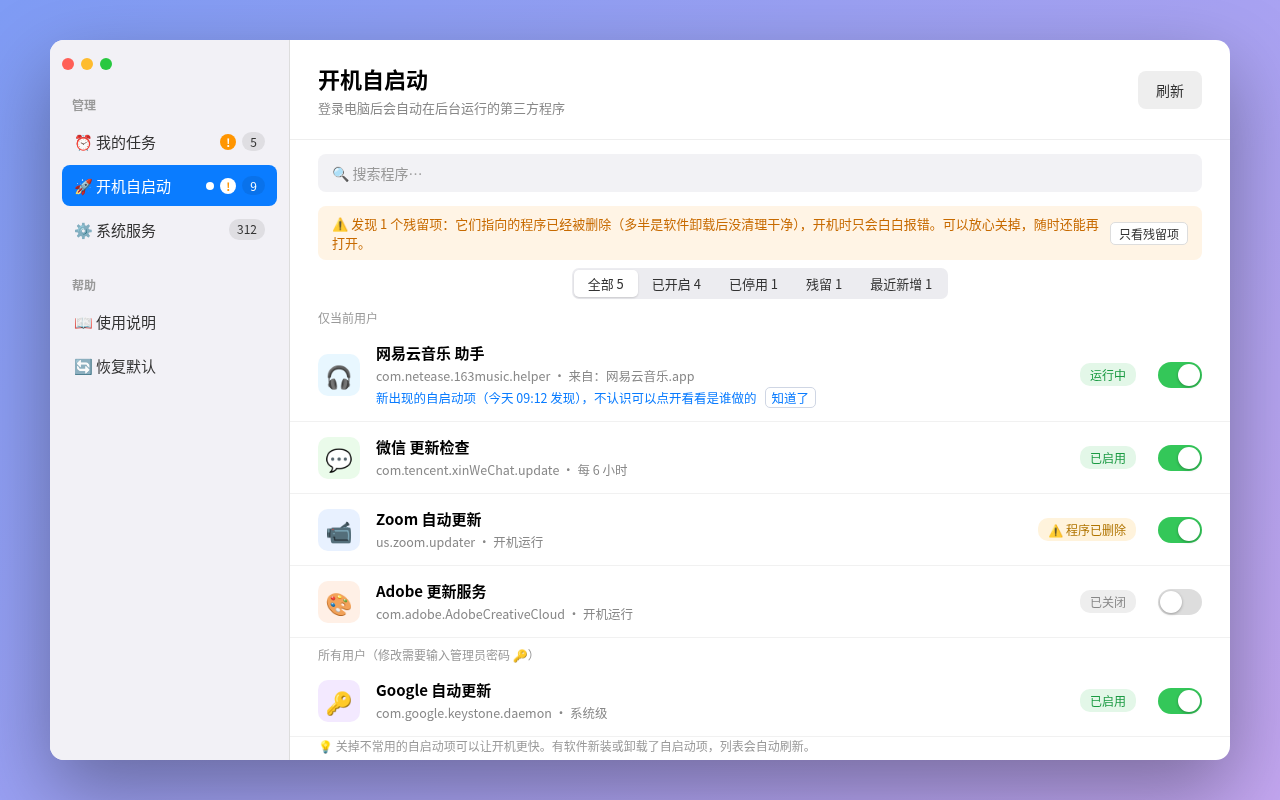
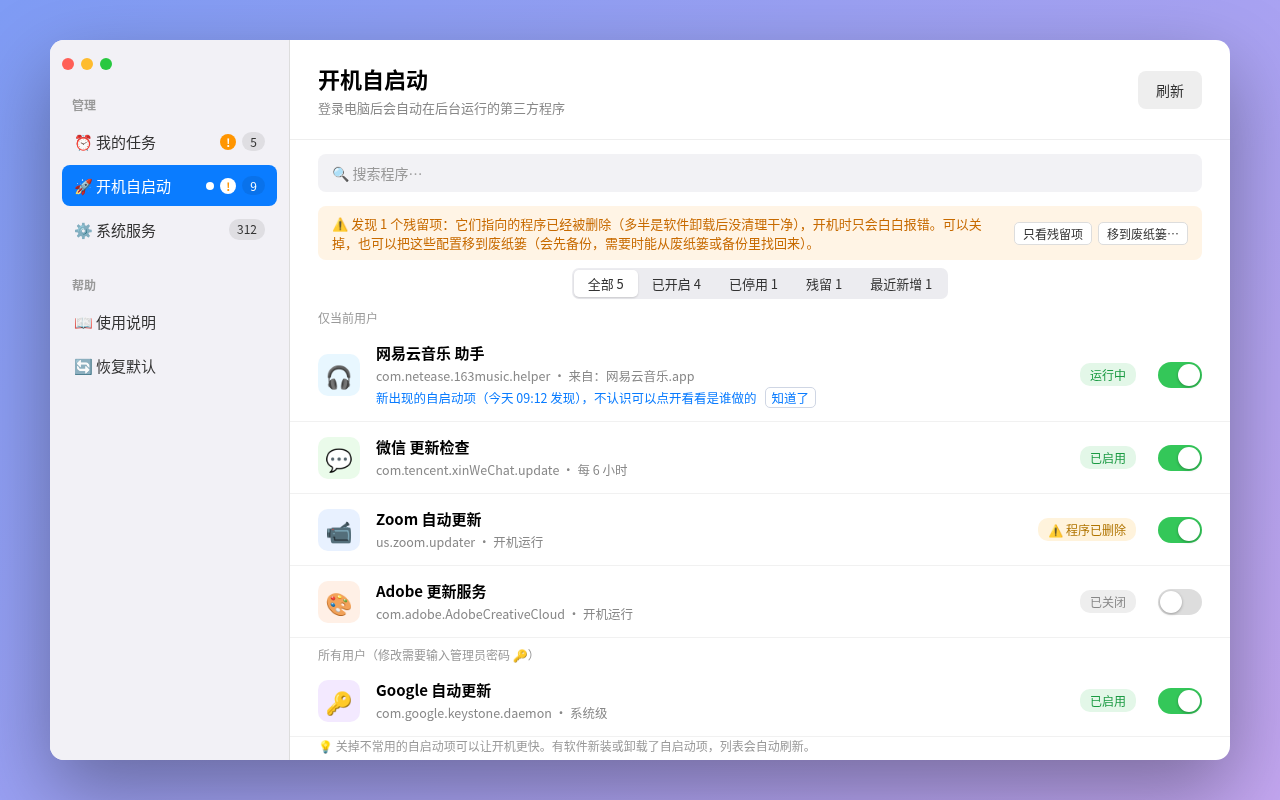
0.6.0：更新说明、README 与开机自启动截图

Changed region(s): [[0.25, 0.2812, 0.625, 0.3125], [0.75, 0.25, 0.9375, 0.3125]]

diff --git a/README.md b/README.md
@@ -20,7 +20,7 @@
 
 ![新建任务](docs/images/mockup-new-task.png)
 
-**开机自启动**：各种软件偷偷装的后台程序，看不顺眼的可以关掉。软件卸载后留下的残留项会用橙色标出来，还能按「全部 / 已开启 / 已停用 / 残留」筛选。最近 7 天新冒出来的自启动项会用蓝色小字标出来，侧边栏也会亮一个蓝色小圆点。
+**开机自启动**：各种软件偷偷装的后台程序，看不顺眼的可以关掉。软件卸载后留下的残留项会用橙色标出来，还能按「全部 / 已开启 / 已停用 / 残留」筛选；这些残留配置可以先备份再移到废纸篓，移走后访达会打开并选中这些文件。最近 7 天新冒出来的自启动项会用蓝色小字标出来，侧边栏也会亮一个蓝色小圆点。
 
 ![开机自启动](docs/images/mockup-startup.png)
 
@@ -36,22 +36,22 @@
   - 三种时间：每隔 N 分钟（或小时）、每天几点几分、开机登录时
   - 暂停和恢复，暂停后重启电脑也不会偷偷跑起来
   - 「每天几点」的任务直接在列表里显示「下次：今天 21:00」，不用自己算
-  - 新建或修改时会提前告诉你保存后第一次什么时候运行；保存按钮变灰时，旁边会写出还差哪一步
+  - 新建或修改时会提前告诉你保存后第一次什么时候运行；保存按钮变灰时，旁边会写出还差哪一步。点灰掉的保存按钮，会让还没填的那一行闪一下描边；「每隔一段时间」设得太短（少于 5 分钟）时，会用橙色小字提醒，但不阻止保存
   - 右键「立即运行一次」，方便试一下效果
   - 也可以用键盘：选中任务后回车修改、空格暂停或恢复、删除键删除（会先确认）
-  - 查看运行记录，任务打印的内容和报错都会存在 `~/Library/Logs/Launchy/` 里。出错的那一行会标橙并自动滚过去，也可以「拷贝全部」发给别人帮忙看
+  - 查看运行记录，任务打印的内容和报错都会存在 `~/Library/Logs/Launchy/` 里。出错的那一行会标橙并自动滚过去，也可以「拷贝全部」发给别人帮忙看。如果是隐私保护拦住，或任务要打开的文件找不到了，橙色说明旁边会直接给出「打开系统设置」或「重新选择…」
   - 每个任务都显示上次运行结果：成功还是失败、启用以来跑了几次。失败时用大白话说原因（比如「脚本没有执行权限」「找不到 brew 命令」），旁边有「查看运行记录」按钮
   - 要打开的程序、脚本或文件被移走或删掉了，会显示橙色「找不到文件」，点「重新选择…」换一个就行
 - **开机自启动**
   - 列出「仅当前用户」「所有用户」「系统级」三类第三方后台服务
   - 一个开关控制启用或关闭。系统级的服务会弹出系统密码框，Launchy 自己不碰你的密码
   - 每一项都显示所属软件的真实图标；找不到软件的，按用途（更新、同步、清理、网络、安全……）配一个彩色小图标
-  - 点一下就能看详情：它属于哪个软件、是谁做的（读程序签名，告诉你是苹果、App Store、苹果认证的开发者，还是没签名）、大概是干嘛的（常见的我写了中文说明，其他的靠关键词猜个八九不离十）、什么时候运行、进程号、上次退出码
+  - 点一下就能看详情：它属于哪个软件、是谁做的（读程序签名，告诉你是苹果、App Store、苹果认证的开发者，还是没签名；认证开发者的程序还会再说一句有没有经过苹果公证）、大概是干嘛的（常见的我写了中文说明，其他的靠关键词猜个八九不离十）、什么时候运行、进程号、上次退出码
   - 详情页里可以「立即运行」「停止」「在访达中显示」
   - 顶部可以按「全部 / 已开启 / 已停用 / 残留」筛选，每一项后面带数量
   - 标出「最近新增」：最近 7 天新冒出来的自启动项会用蓝色小字提醒是什么时候发现的，点「知道了」就不再提醒（不会关掉它）；有好几个时可以在「最近新增」筛选里「全部知道了」。第一次使用时，已有的都算早就有的
   - 有软件新装或卸载了自启动项，列表会自动刷新，不用手动点「刷新」
-  - 自动标出「残留项」：软件已经删了、后台配置还留着的，会显示橙色「⚠ 程序已删除」，页面顶部也会提醒，详情页会用大白话告诉你怎么处理。只检查第三方服务，不会自动删任何东西
+  - 自动标出「残留项」：软件已经删了、后台配置还留着的，会显示橙色「⚠ 程序已删除」，页面顶部也会提醒。可以先备份再移到废纸篓（只处理程序已删除的第三方项；涉及 `/Library` 时会要一次密码），移走后访达会打开废纸篓并选中这些文件，方便确认或拖回去。不会永久删除
   - 可以编辑：程序、参数、开机运行、定时，也可以直接改原始 plist。保存前会先用 `plutil` 检查格式，再自动备份到 `~/Library/Application Support/Launchy/backups`，改坏了能一键从备份恢复。`/Library` 下的文件保存时会弹一次密码框。保存和恢复都在后台进行，界面不会卡住
 - **系统服务**
   - 列出 `/System/Library` 下苹果自带的服务，可以搜索，常见的配了中文名
@@ -62,6 +62,7 @@
   - 每次修改都有记录，可以一键「恢复默认」
 
 - **其他**
+  - 下次打开会记住上次看的是「我的任务」「开机自启动」还是「系统服务」，直接回到那里；第一次使用仍从「我的任务」开始
   - 侧边栏会提醒你哪里需要处理：「我的任务」里有任务出错、「开机自启动」里有还开着的残留项时，名字旁边会出现橙色感叹号，鼠标停上去能看到原因；有最近新增的自启动项时，「开机自启动」旁边会出现蓝色小圆点
   - 支持 VoiceOver 读屏：每一行读成「名字，状态」，开关和右键里的操作都能在 VoiceOver 的操作菜单里找到；新建 / 修改任务窗口也会读出选了什么、保存按钮为什么不能点
 
@@ -150,7 +151,10 @@ scripts/build-app.sh 0.1.0 --dmg   # 产物在 dist/ 里
 「每天几点」的任务会在电脑醒来后补跑一次；「每隔 N 分钟」的任务睡着的时候不跑，醒了接着按间隔跑。这是 launchd 本身的规则，我也没办法。
 
 **脚本说没有权限访问「文稿」「桌面」？**
-这是 macOS 的隐私保护。在「系统设置 → 隐私与安全性 → 完全磁盘访问权限」里给 `zsh`（或者你用的那个程序）打开权限就行。
+这是 macOS 的隐私保护。在「系统设置 → 隐私与安全性 → 完全磁盘访问权限」里给 `zsh`（或者你用的那个程序）打开权限就行。如果是运行记录里认出来的，也可以直接点旁边的「打开系统设置」。
+
+**卸载软件后，「开机自启动」里还留着一项？**
+那是残留配置，程序已经不在了，开着也只会报错。可以先关掉，也可以点「移到废纸篓…」：会先备份，再移到废纸篓，访达会打开并选中这些文件，需要时可以拖回去。
 
 **为什么不上架 App Store？**
 App Store 的应用必须在沙盒里运行，而沙盒里没法管理 launchd，这是硬限制。

diff --git a/docs/release-notes/0.6.0.md b/docs/release-notes/0.6.0.md
@@ -1,0 +1,6 @@
+- 软件卸载后留下的残留自启动配置，可以先备份再移到废纸篓：只处理程序已经不在了的第三方项，不会永久删除；涉及 /Library 时会要一次密码。移走之后，访达会打开废纸篓并选中这些文件，方便当场确认或拖回去
+- 详情页「谁做的」对认证开发者的程序会再补一句有没有经过苹果公证：已公证会说明苹果扫描过；查不到只用灰色说明，不吓人（后台检查，不强制联网）
+- 下次打开会记住上次看的是「我的任务」「开机自启动」还是「系统服务」，直接回到那里；第一次使用仍从「我的任务」开始
+- 运行记录认出是隐私保护拦住，或任务要打开的文件找不到了，会在橙色说明旁边直接给出「打开系统设置」或「重新选择…」，不用自己去翻
+- 「每隔一段时间」设成少于 5 分钟时，会在间隔下面用橙色小字提醒（打开程序会反复弹出、打开文件会打断手上的事、脚本更费电且没跑完会跳过），只提醒，不阻止保存
+- 新建或修改任务时，点看起来灰掉的「创建 / 保存」按钮，会让还没选文件或间隔没填对的那一行闪一下描边，把人带到要补的地方
